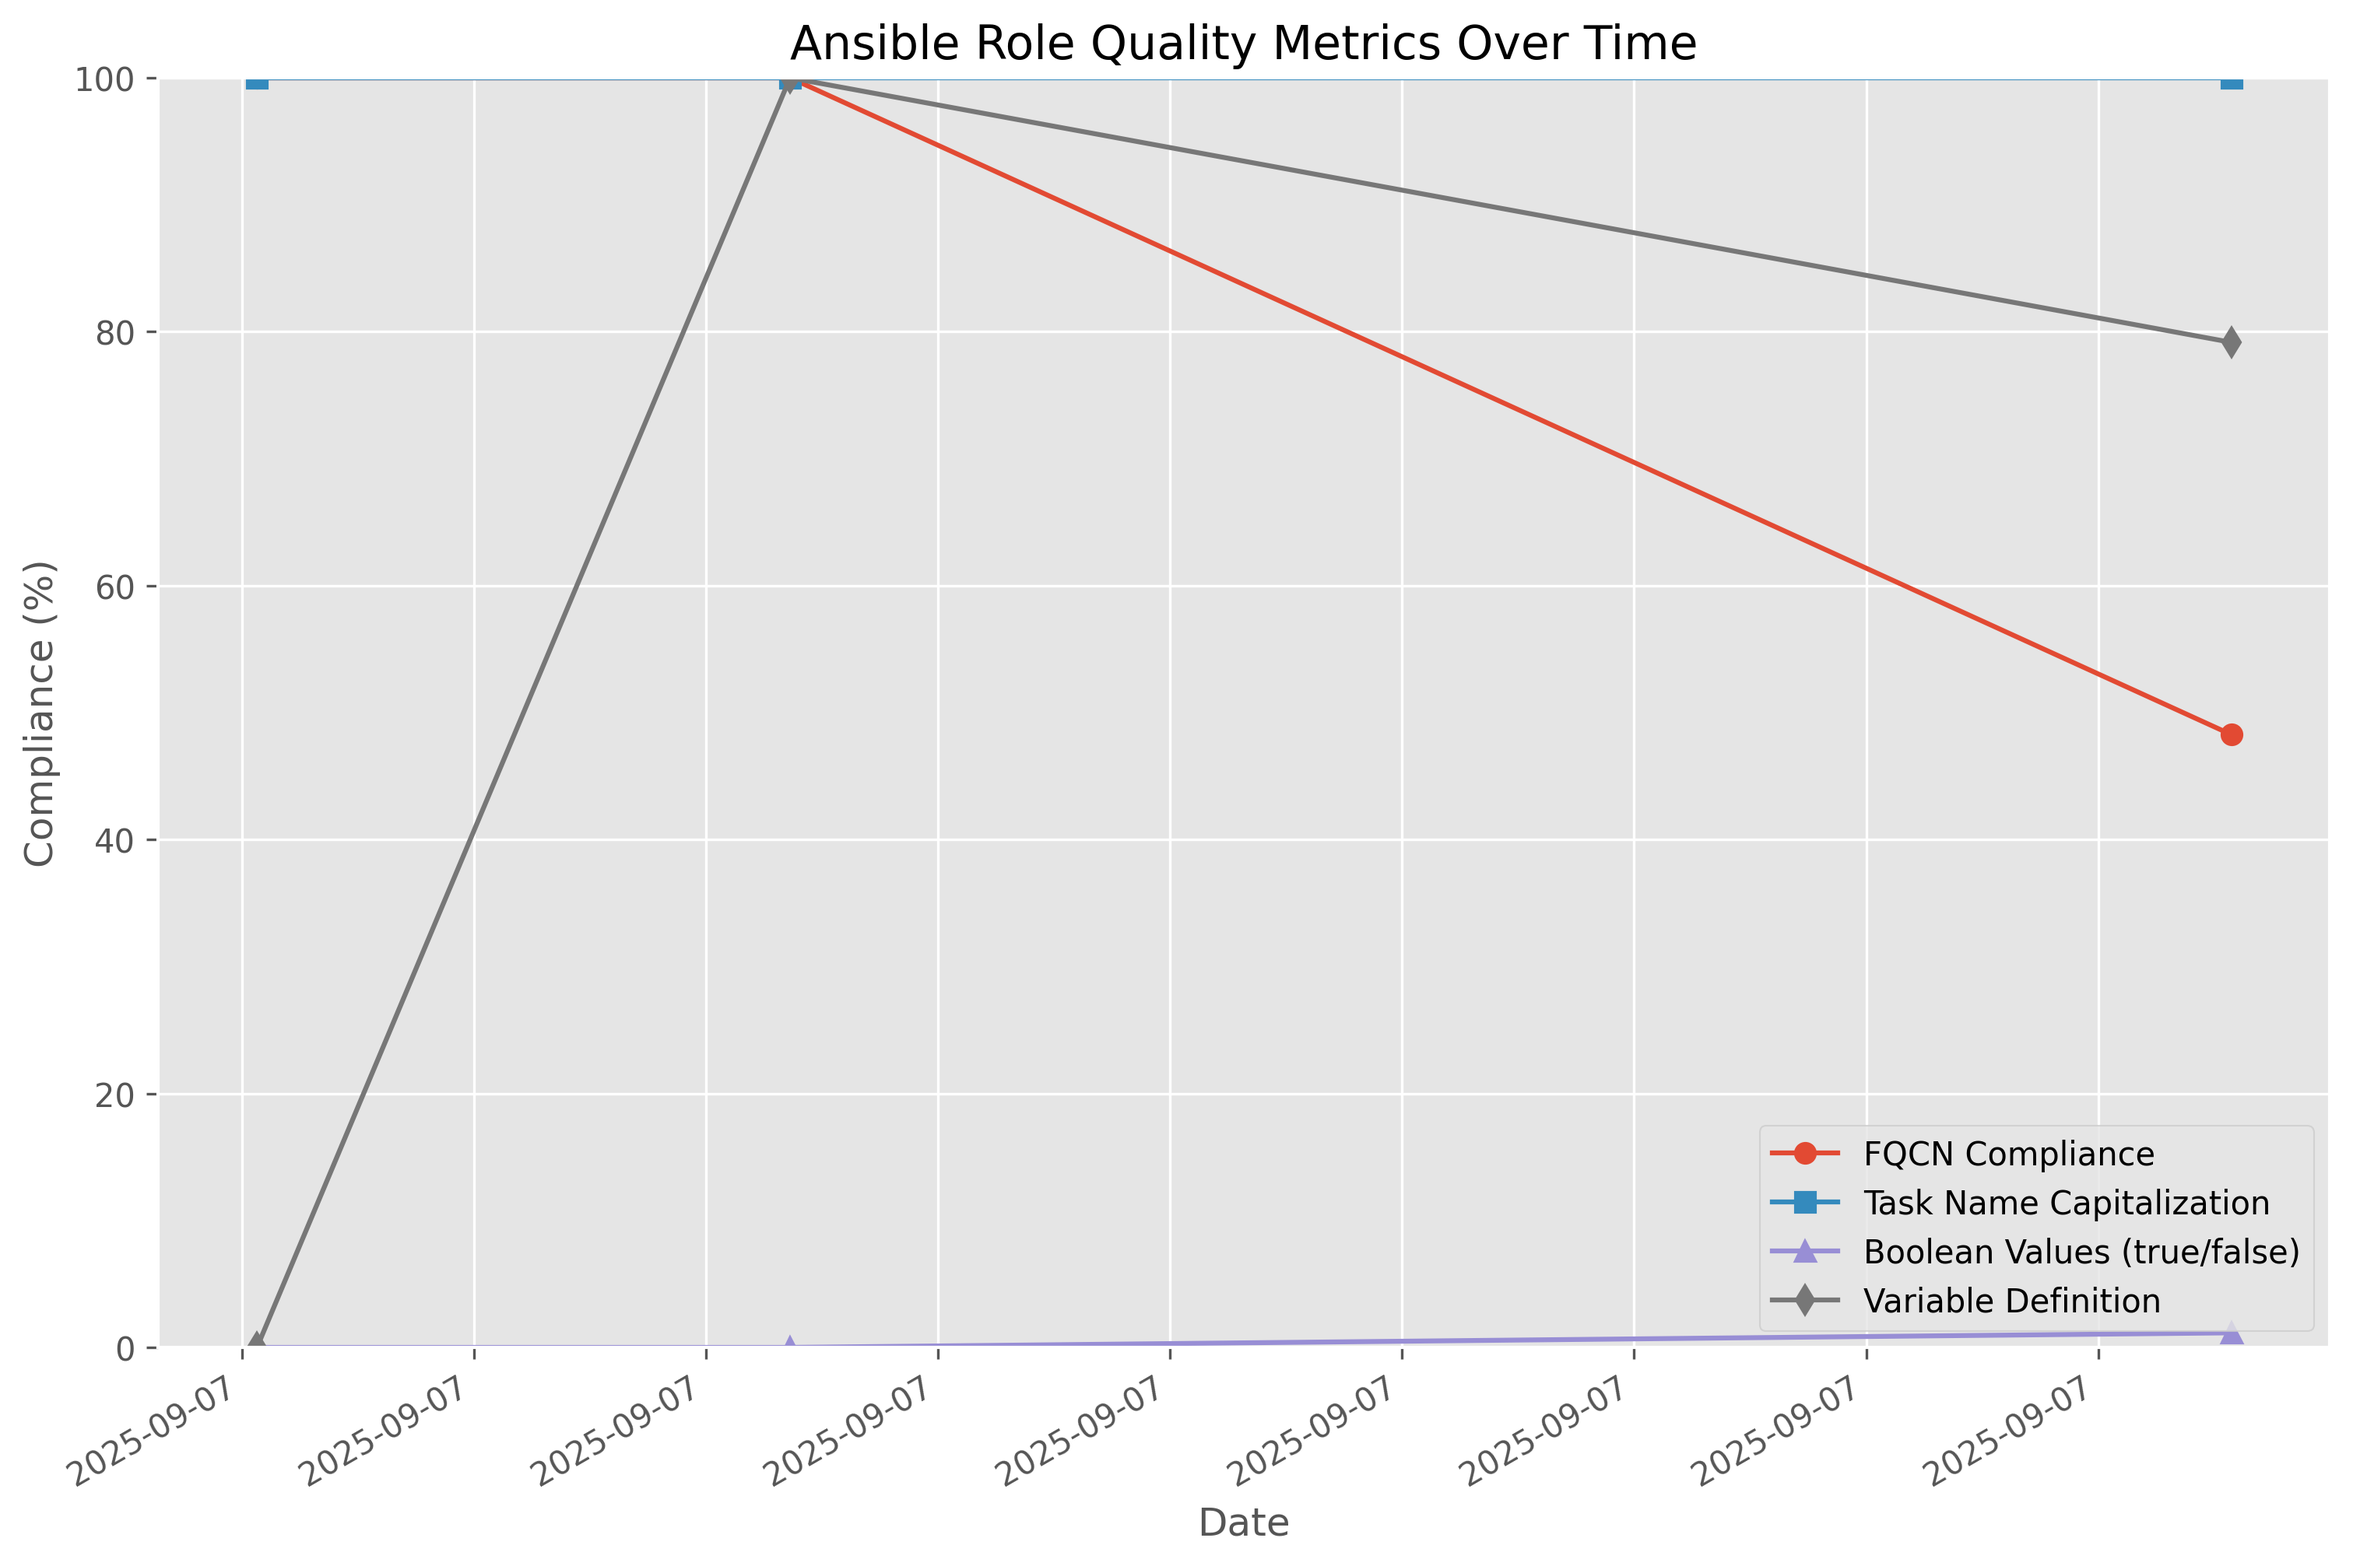
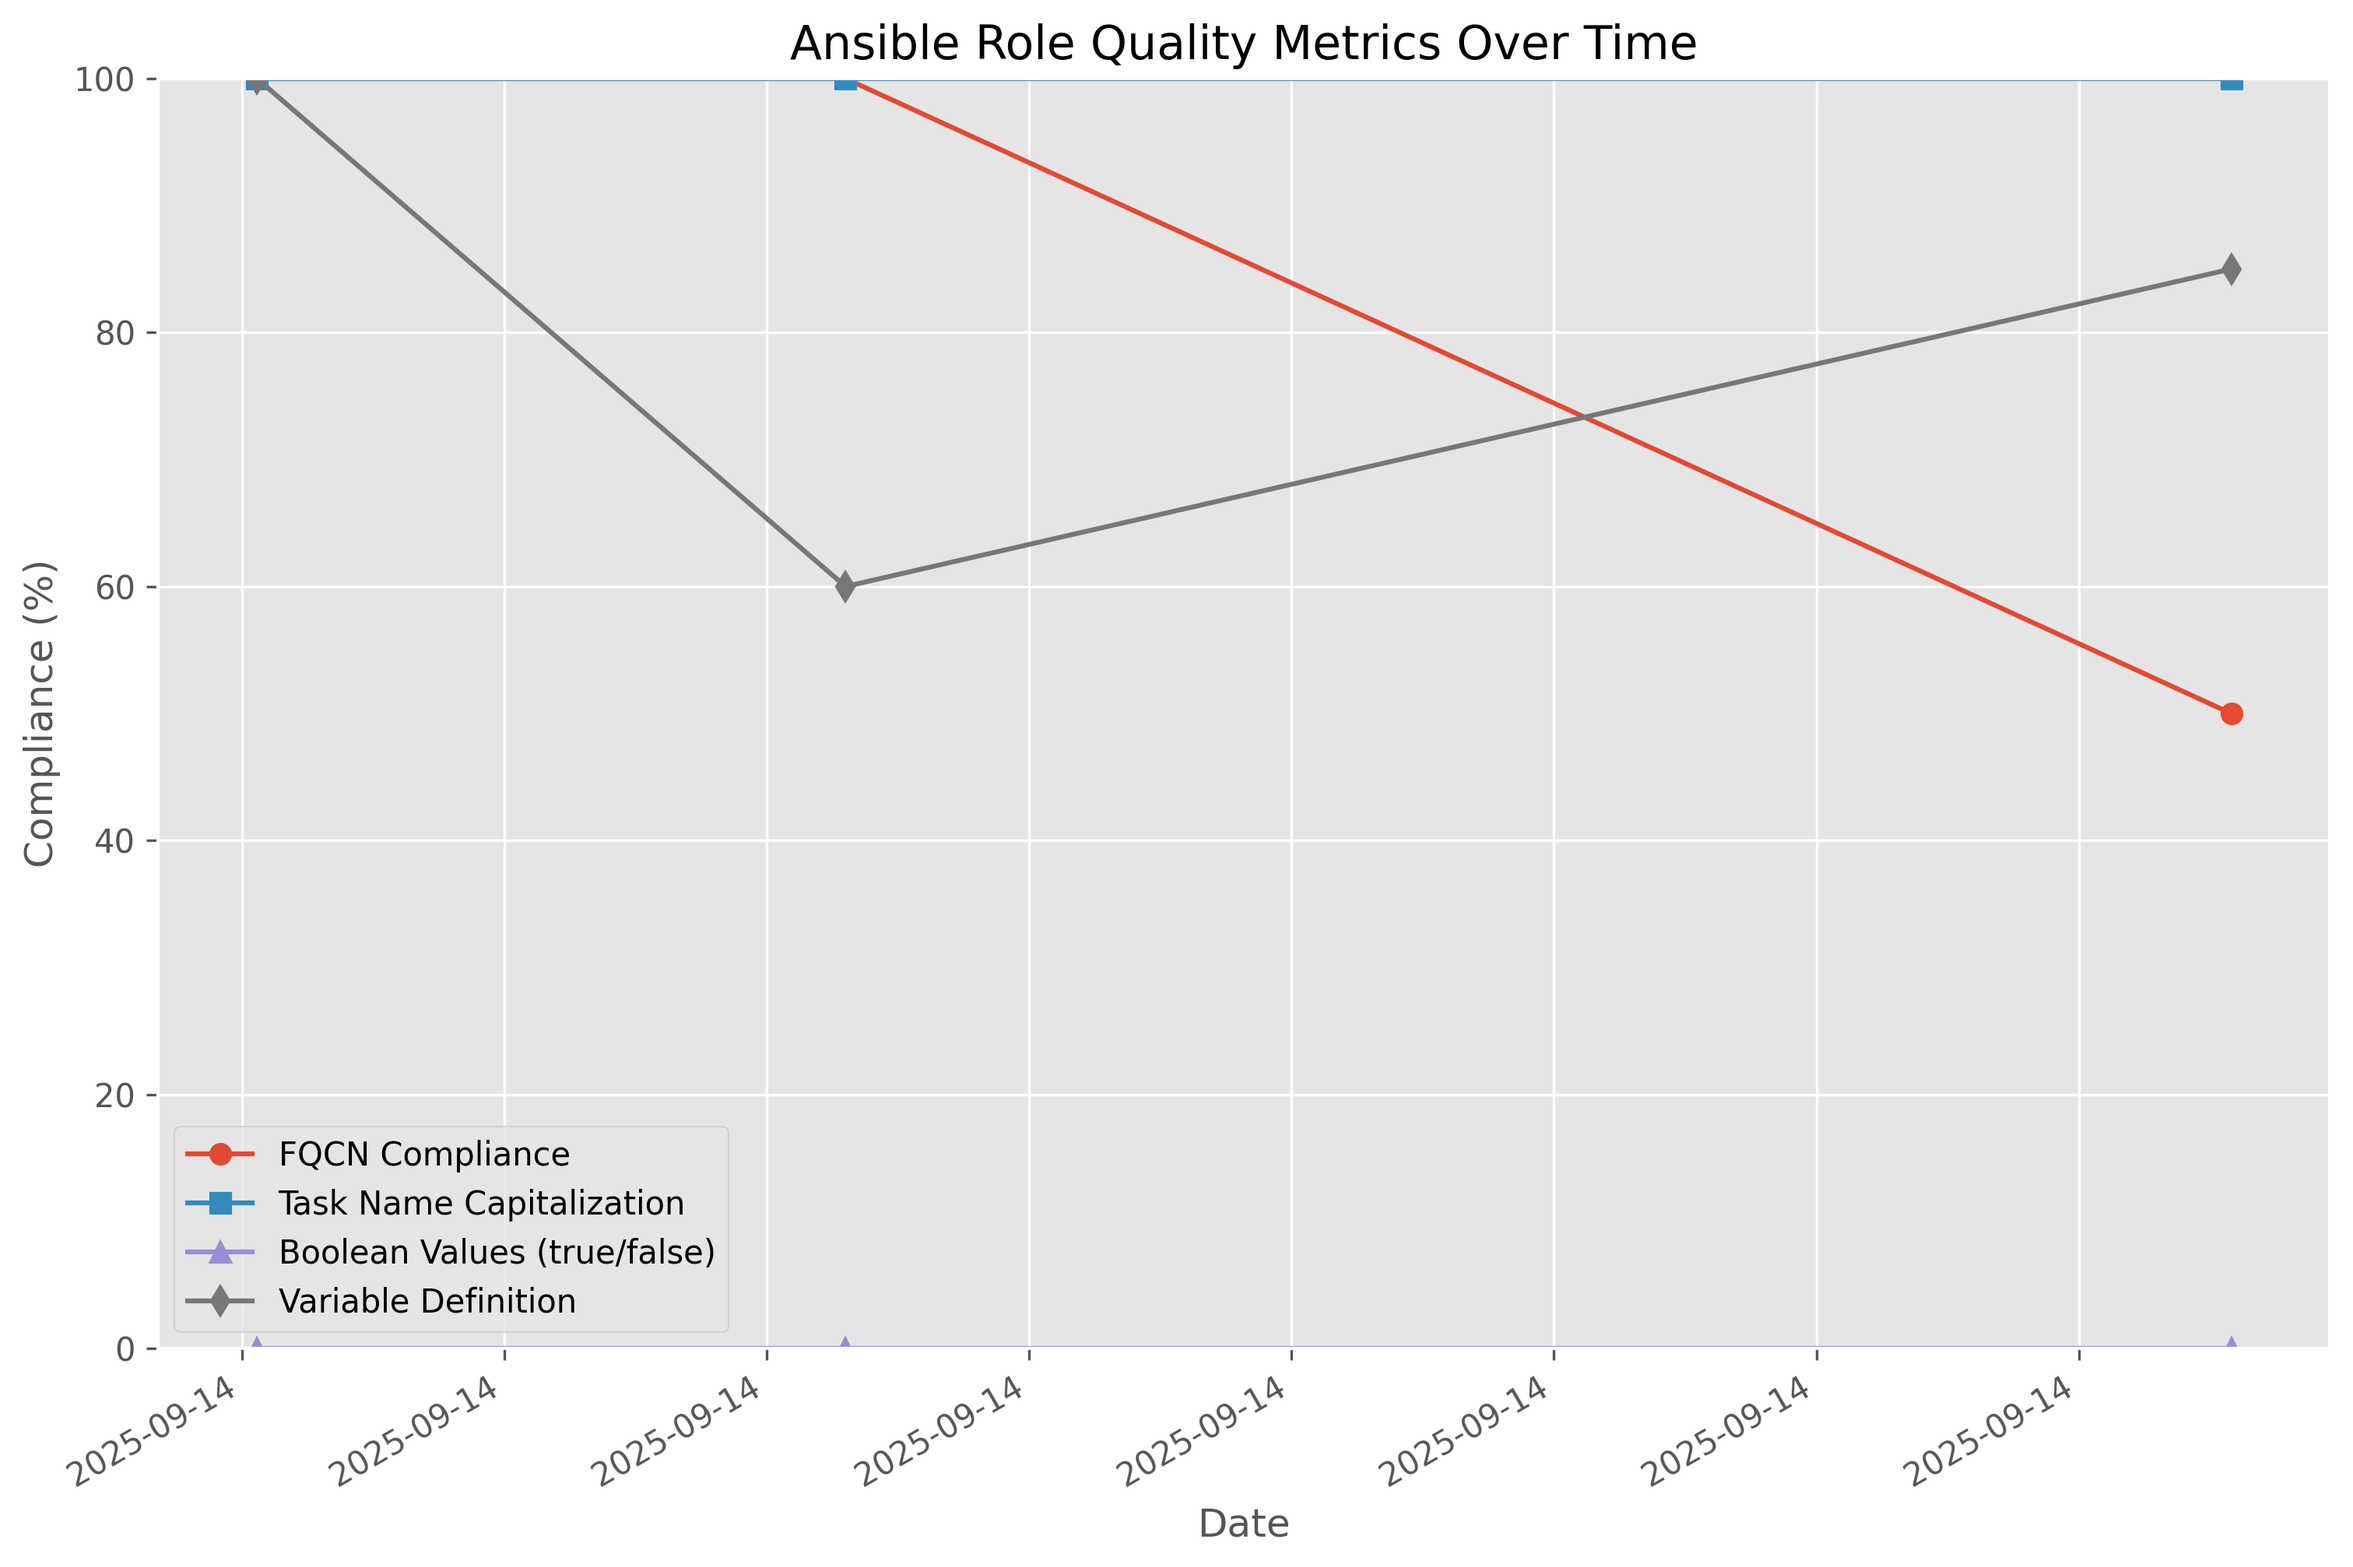
Update metrics (automated) 86381e575e3cb567ae7d61f2b827ec3665fe9a28

diff --git a/metrics/metrics_summary.md b/metrics/metrics_summary.md
@@ -1,15 +1,15 @@
 # Chef to Ansible Conversion Metrics
 
-Last updated: 2025-09-07 01:32:51
+Last updated: 2025-09-14 00:27:20
 
 ## Latest Compliance Metrics
 
 | Metric | Value |
 |--------|-------|
-| FQCN Compliance (%) | 48.28% |
+| FQCN Compliance (%) | 50.00% |
 | Task Name Capitalization (%) | 100.00% |
-| Boolean Values (true/false) (%) | 1.15% |
-| Variable Definition (%) | 79.17% |
+| Boolean Values (true/false) (%) | 0.00% |
+| Variable Definition (%) | 85.00% |
 
 ## Compliance Metrics Over Time
 
